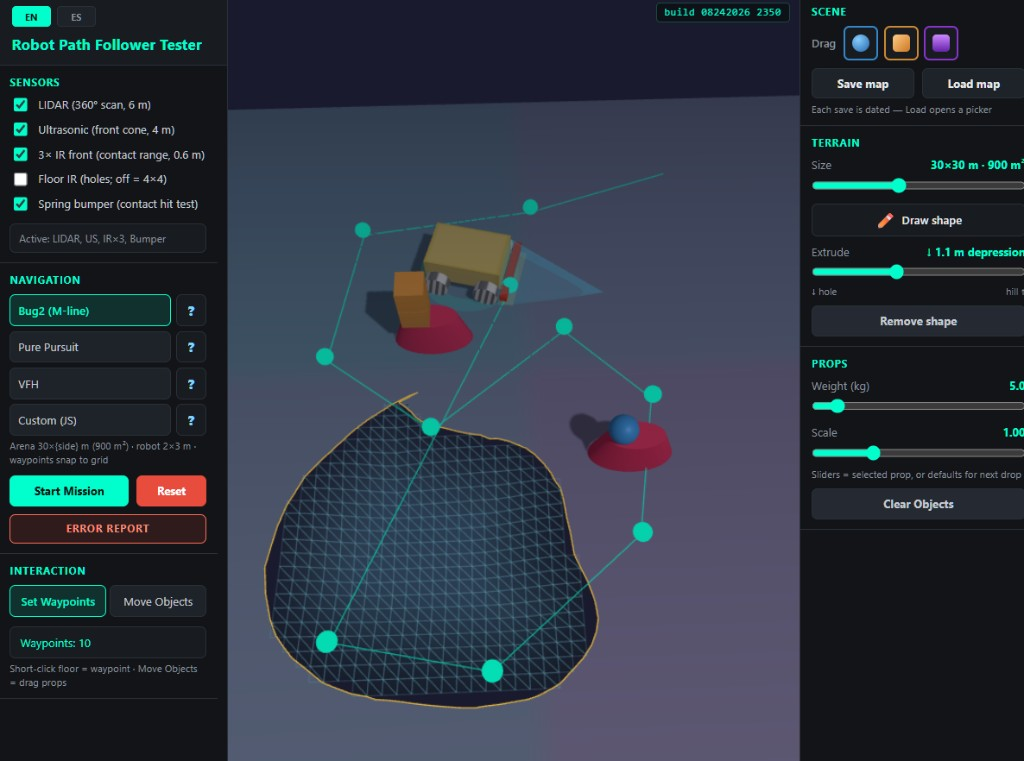
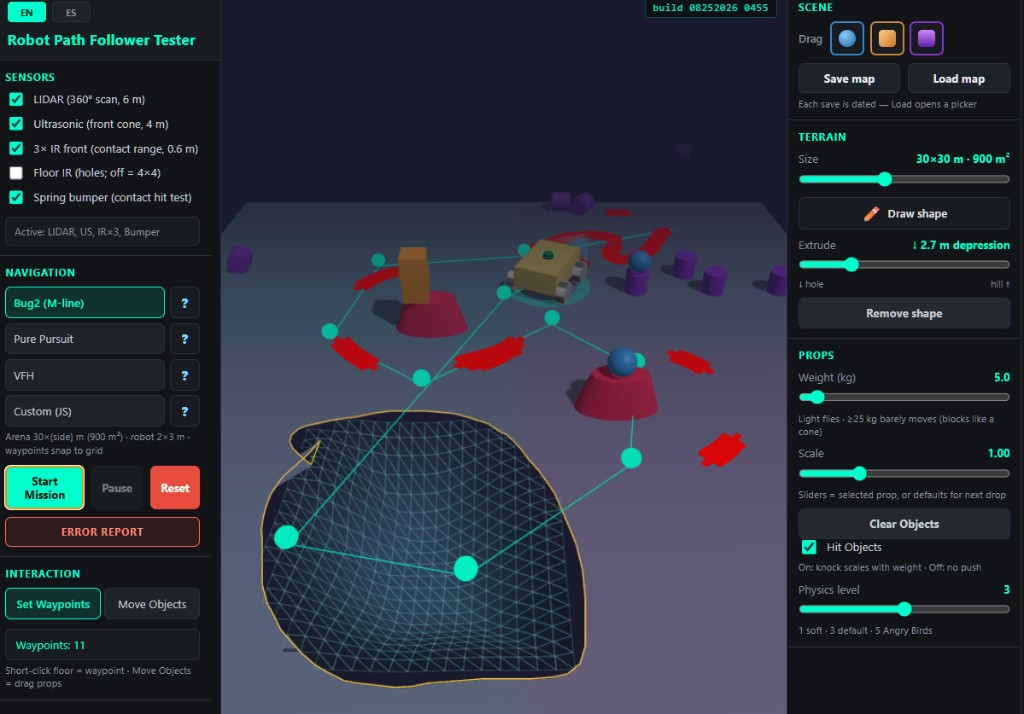
README EN/ES + current sim screenshot — by aoxilus, 2026-08-25

diff --git a/README.md b/README.md
@@ -1,132 +1,107 @@
-# 🤖🚗🛸 Robot Path Follower Tester
+# 🥑 Robot Path Follower Tester
 
-EN / ES · Vite + Three.js · 4-wheel rover
+**EN / ES** · Vite + Three.js · 4-wheel rover · by [aoxilus](https://github.com/aoxilus)
 
-![Robot Path Follower Tester — 3-column UI with 4-wheel robot, waypoints, and physics objects](docs/screenshot.png)
+![Robot Path Follower Tester — 3-column UI, rover, waypoints, props, mountain/hole terrain](docs/screenshot.png)
 
-> **Many times we need to fast-simulate follow algorithms on a 4-wheel robot — that's why we made this app.** 🤖
->
-> **Muchas veces necesitamos simular rápido algoritmos de seguimiento en un robot de 4 ruedas — por eso hicimos esta app.** 🚗
-
-Drop waypoints, pick an algorithm, watch a **4-wheel rover** 🤖 navigate in 3D — no ROS install, no Gazebo wait, no hardware required. Just open the browser and test your idea in seconds.
-
-Coloca waypoints, elige un algoritmo y mira un **rover de 4 ruedas** 🛸 navegar en 3D — sin instalar ROS, sin esperar Gazebo, sin hardware. Abre el navegador y prueba tu idea en segundos.
-
+> **EN:** Fast-simulate follow algorithms on a 4-wheel robot — no ROS, no Gazebo, no hardware. 🤖  
+> **ES:** Simula rápido algoritmos de seguimiento en un robot de 4 ruedas — sin ROS, sin Gazebo, sin hardware. 🚗
 
 ---
 
 ## 🥑 Why this exists / Por qué existe
 
-| Problem | This app |
-|---------|----------|
-| Path-following ideas are slow to validate on real hardware | Instant 3D sandbox in the browser |
-| ROS/Gazebo setup takes forever for a quick test | `npm install && npm run dev` — done |
-| You want to compare Pure Pursuit, Bug2, and VFH | Switch algorithms in one click |
-| Teaching or prototyping a 4-wheel differential-drive bot | Visual telemetry + collision log |
+| EN | ES |
+|----|-----|
+| Path ideas are slow to try on real hardware | Probar rutas en hardware real es lento |
+| ROS / Gazebo takes forever for a quick test | ROS / Gazebo tarda demasiado para un test rápido |
+| Compare Bug2, Pure Pursuit, VFH, Custom in one click | Compara Bug2, Pure Pursuit, VFH y Custom en un clic |
+| Teach or prototype a differential-drive rover | Enseña o prototipa un rover diferencial |
 
-**Future / Futuro:** plug in your own algorithms in **Python** or **JavaScript**.
+**EN:** Open the browser and test in seconds.  
+**ES:** Abre el navegador y prueba en segundos.
 
 ---
 
-## ⚡ Quick start
+## ⚡ Quick start / Arranque
 
 ```bash
-git clone <repo-url>
-cd robot-path-planning-sim
+git clone https://github.com/aoxilus/robot-path-follower-tester.git
+cd robot-path-follower-tester
 npm install
 npm run dev
 ```
 
-Open **http://localhost:5173/** · toggle **English / Español** in the UI.
+**EN:** Open http://localhost:5173/ — toggle **EN / ES** at the top of the left panel.  
+**ES:** Abre http://localhost:5173/ — cambia **EN / ES** arriba del panel izquierdo.
 
 ---
 
-## 🎮 How to use
+## 🎮 How to use / Cómo usarlo
 
-**Layout:** left panel = settings · **center** = 3D robot scene · **right** = drag & drop objects + terrain.
+**EN — layout:** left = sensors & mission · center = 3D arena · right = props & terrain.  
+**ES — layout:** izquierda = sensores y misión · centro = arena 3D · derecha = props y terreno.
 
-1. **Click the center scene** → set waypoints (🟢 start · 🟡 middle · 🔴 end)
-2. **Pick an algorithm** → Bug2 (default) · Pure Pursuit · VFH · Custom
-3. **Start Mission** → snapshot, then the robot follows the path. **Pause** freezes it. **Reset** restores the snapshot (does not wipe the map).
-4. **Drag objects** from the right panel onto the scene → stack boxes/spheres/cylinders. **Weight (kg)** = how much they move on collision (light flies, ≥25 kg barely moves). The robot pushes them on contact when Hit Objects is on.
-5. **✏ Draw shape** on the right panel → outline a polygon on the floor, then **Extrude** ↑ (mountain) or ↓ (depression / hole)
-6. **Error Report** → robot state + recent log (Copy / JSON / CSV) for debugging
+| Step | EN | ES |
+|------|----|-----|
+| 1 | Short-click the floor → waypoints | Clic corto en el piso → waypoints |
+| 2 | Pick an algorithm (Bug2 default) | Elige algoritmo (Bug2 por defecto) |
+| 3 | **Start Mission** — snapshot, then drive. **Pause** freezes. **Reset** restores the snapshot (does not wipe the map) | **Iniciar misión** — snapshot, luego conduce. **Pausa** congela. **Reset** restaura el snapshot (no borra el mapa) |
+| 4 | Drag sphere / cube / cylinder. **Weight (kg)** = how much they move on hit (light flies, ≥25 kg barely moves) | Arrastra esfera / cubo / cilindro. **Peso (kg)** = cuánto se mueven al golpe (liviano vuela, ≥25 kg casi no se mueve) |
+| 5 | **Draw shape** → **Extrude ↑** mountain or **↓** hole | **Dibujar forma** → **Extruir ↑** montaña o **↓** hoyo |
+| 6 | **Error Report** → Copy / JSON / CSV | **Reporte de error** → Copiar / JSON / CSV |
 
-Extruded terrain is a **choke obstacle**: LIDAR/ultrasonic/IR detect its perimeter, hit-test blocks overlap, and path algorithms route around it. At `0 m`, the flat preview does not block.
+**EN:** Physics (gravity, knock) runs only while a mission is playing — stack props while editing. **Clear Objects** empties props.  
+**ES:** La física (gravedad, golpes) corre solo con la misión en marcha — apila props en edición. **Quitar objetos** vacía los props.
 
-Sensors are modular and independently authoritative. LIDAR alone scans 360° on a slower cycle and evaluates a **3 m-wide rover corridor** per heading; ultrasonic alone covers the inexpensive front cone, and IR is a short **0.6 m** contact-zone sensor.
+**EN — Floor IR** defaults off (drive into holes like a 4×4). Turn it on to route around the rim. The rover **tilts** on hills and holes.  
+**ES — IR de piso** viene apagado (entra a hoyos como un 4×4). Actívalo para rodear el borde. El rover **se inclina** en colinas y hoyos.
 
-The default hit-test uses the rover’s complete **2.8×3 m body-and-wheel footprint** in world meters. Its visible spring bumper compresses and springs back without overriding navigation, while swept substeps prevent tunneling through thin objects.
-
-**Floor IR** defaults **off** (rover drives into holes like a 4×4). Enable it to detect depression edges and route around them. If movement stays within `0.12 m` for `1.8 s`, shared recovery reverses, looks toward the clearest path, escapes, then resumes with a cooldown.
-
-The rover **tilts** from the four wheel ground samples (pitch / roll + visual suspension) on hills and holes.
+Full walkthrough + FAQ: **[wiki/index.html](wiki/index.html)** (EN/ES)
 
 ---
 
-## 🤖🚗🛸 Built-in algorithms
+## 🤖🚗🛸 Algorithms / Algoritmos
 
-| Algorithm | What it does |
-|-----------|--------------|
-| **Bug2** (`bug2`) | Follows the M-line to the goal and traces obstacles when blocked *(default)* |
-| **Pure Pursuit** (`pure_pursuit`) | Tracks the waypoint path using a lookahead target |
-| **VFH** (`vfh`) | Builds a local steering choice from obstacle sectors |
-| **Custom** (`custom`) | JS pad: copy the robot API, paste a `loop()` that sets `v` and `omega` |
-
-Full walkthrough (EN/ES + FAQ): **[wiki/index.html](wiki/index.html)**
+| Id | EN | ES |
+|----|----|-----|
+| `bug2` | M-line to the goal; follow the obstacle when blocked *(default)* | M-line a la meta; sigue el obstáculo si está bloqueado *(default)* |
+| `pure_pursuit` | Steer toward a lookahead point on the path | Apunta a un punto de lookahead en la ruta |
+| `vfh` | Pick a clear sector from a local histogram | Elige un sector libre del histograma local |
+| `custom` | Your `loop()` sets `v` and `omega` | Tu `loop()` asigna `v` y `omega` |
 
 ---
 
 ## 🧱 Stack
 
-- **Three.js** — 3D scene, robot mesh, sensors, radar arcs
-- **cannon-es** — physics props the robot can push
-- **Vite** — fast dev server
-- **i18n** — English + Spanish UI
+- **Three.js** — 3D scene / escena 3D
+- **cannon-es** — props the rover can push / props que el rover empuja
+- **Vite** — dev server
+- **i18n** — English + Español
 
-**Physics note / Nota de física:** `cannon-es` is used for visual props and kinematic rover motion (`applyMotion` + kinematic body). This is not a validated differential-drive dynamics simulator.
-
-**Nota de física / Physics note:** `cannon-es` se usa para objetos visuales y movimiento cinemático del rover (`applyMotion` + cuerpo cinemático). No es un simulador validado de dinámica diferencial.
+**EN:** Teaching sandbox, not a validated differential-drive plant model.  
+**ES:** Sandbox didáctico, no un modelo validado de planta diferencial.
 
 ---
 
-## 📂 Project layout
+## 📂 Layout / Archivos
 
 ```
-index.html              # 3-column UI + Custom JS pad
-main.js                 # scene, rover, mission, maps, Error Report, Custom checker
-nav.js                  # sensors + algorithms
-style.css               # layout
-scripts/smoke_sim.mjs   # smoke test
-wiki/index.html         # bilingual wiki (EN/ES) + FAQ
-docs/HOW_IT_WORKS.md    # how the sim works
-docs/ARCHITECTURE.md    # files + data flow
-docs/CUSTOM_JS.md       # Custom pad
-docs/screenshot.png     # README preview
-notes/                  # extra API wiki
+index.html              UI (3 columns, Custom pad)
+main.js                 Scene, rover, mission, maps, Error Report
+nav.js                  Sensors + algorithms
+style.css               Layout
+scripts/smoke_sim.mjs   Smoke test
+wiki/index.html         Wiki EN/ES + FAQ
+docs/HOW_IT_WORKS.md    How the sim works (EN/ES)
+docs/screenshot.png     README preview
+notes/                  Extra API wiki
 ```
 
-Walkthrough: **[wiki/index.html](wiki/index.html)** · **[docs/HOW_IT_WORKS.md](docs/HOW_IT_WORKS.md)**
-
 ---
 
-## 🚀 Roadmap
+## 📜 License / Licencia
 
-- [x] Custom JS pad (copy setup → AI → check/save loop)
-- [x] Export telemetry as JSON/CSV
-- [x] Hit test toggle (avoid vs push light props)
-- [x] Prop mass / scale inspector
-- [x] GitHub README screenshot
-- [x] Bilingual HTML wiki (`wiki/`)
-- [x] Hit Objects + physics level (v1.3)
-- [x] Pause + Reset restores pre-mission map
-- [x] Prop weight scales collision shove
-- [ ] GitHub Pages live demo
-
----
-
-## 📜 License
-
-CC BY-NC-SA 4.0 — see [LICENSE](LICENSE).
+[CC BY-NC-SA 4.0](LICENSE)
 
 Made with 🥑 by [aoxilus](https://github.com/aoxilus)
